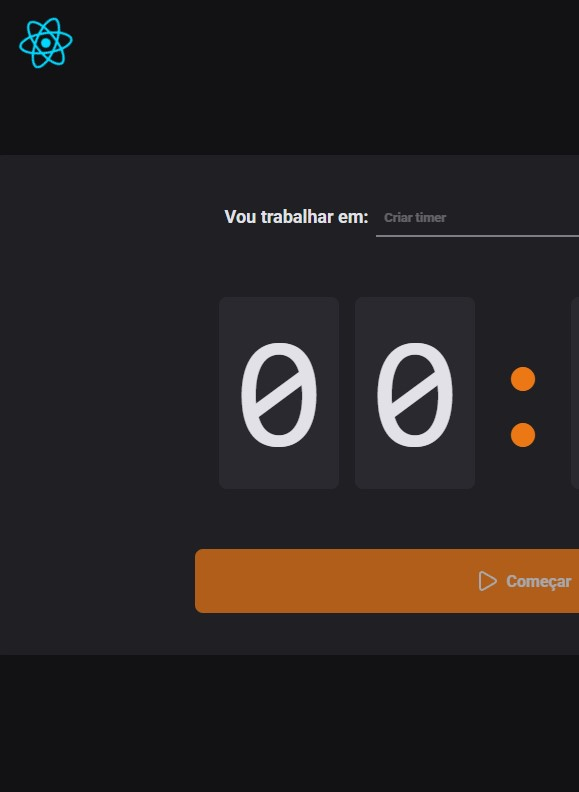
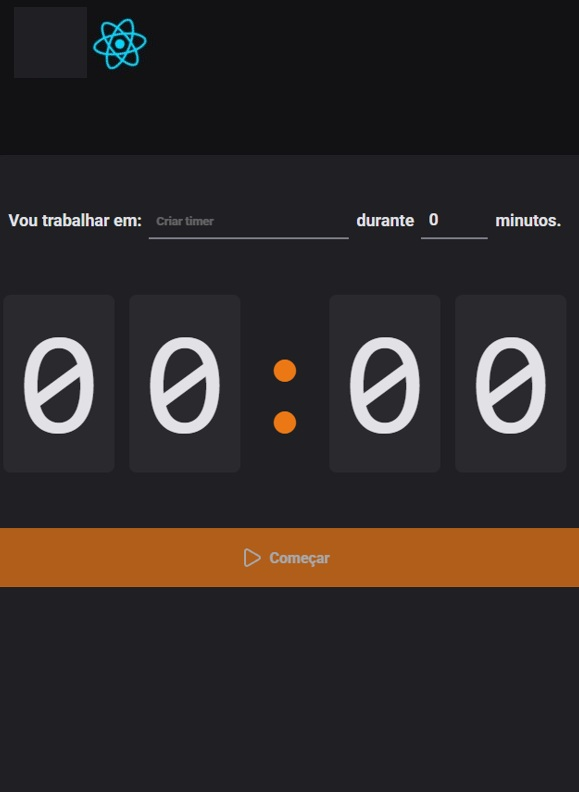
ajustes mobile

diff --git a/css/layout.css b/css/layout.css
@@ -6,6 +6,7 @@
     scroll-behavior: smooth;
  }
 
+ 
 /* Header */
 header {
     display: flex;
@@ -35,11 +36,11 @@ header nav ul {
     font-size: 20px;
 }
 
-header nav ul li a{
+header nav ul li a {
     color: #fff;
 }
 
-header .icons{
+header .icons {
     width: 25%;
     gap: 5vw;
 }
@@ -73,7 +74,7 @@ main {
     align-items: center;
 }
 
-.blo1{
+.blo1 {
     width:20%;
     text-align: center;
 }
@@ -84,12 +85,12 @@ h1 {
     margin: 10px 0;
 }
 
-.textH1{
+.textH1 {
     color:#9b9595;
     font-size: 1.3rem;
 }
 
-.blo2{
+.blo2 {
     height:100%;
     width:17%;
     display: flex;
@@ -97,18 +98,18 @@ h1 {
     align-items: center;
 }
 
-.blo2 img{
+.blo2 img {
    width: 370px;
 }
 
-.blo3{
+.blo3 {
     width:20%;
     text-align: center;
 }
 
 
 /* Seção de artigos */
-.secArticlo{
+.secArticlo {
     background:#e7e7e7;
     height:360px;
     display: flex;

diff --git a/css/mobile.css b/css/mobile.css
@@ -238,6 +238,7 @@
         flex-direction: column;
         align-items: center;
         margin: 20px 0 0 0;
+        padding: 0;
     }
 
     figure.imgCont {
@@ -254,6 +255,6 @@
     footer p {
     position: relative;
     left: 0;
-    font-size: 14px;  
+    font-size: 13px;  
     }
 }
